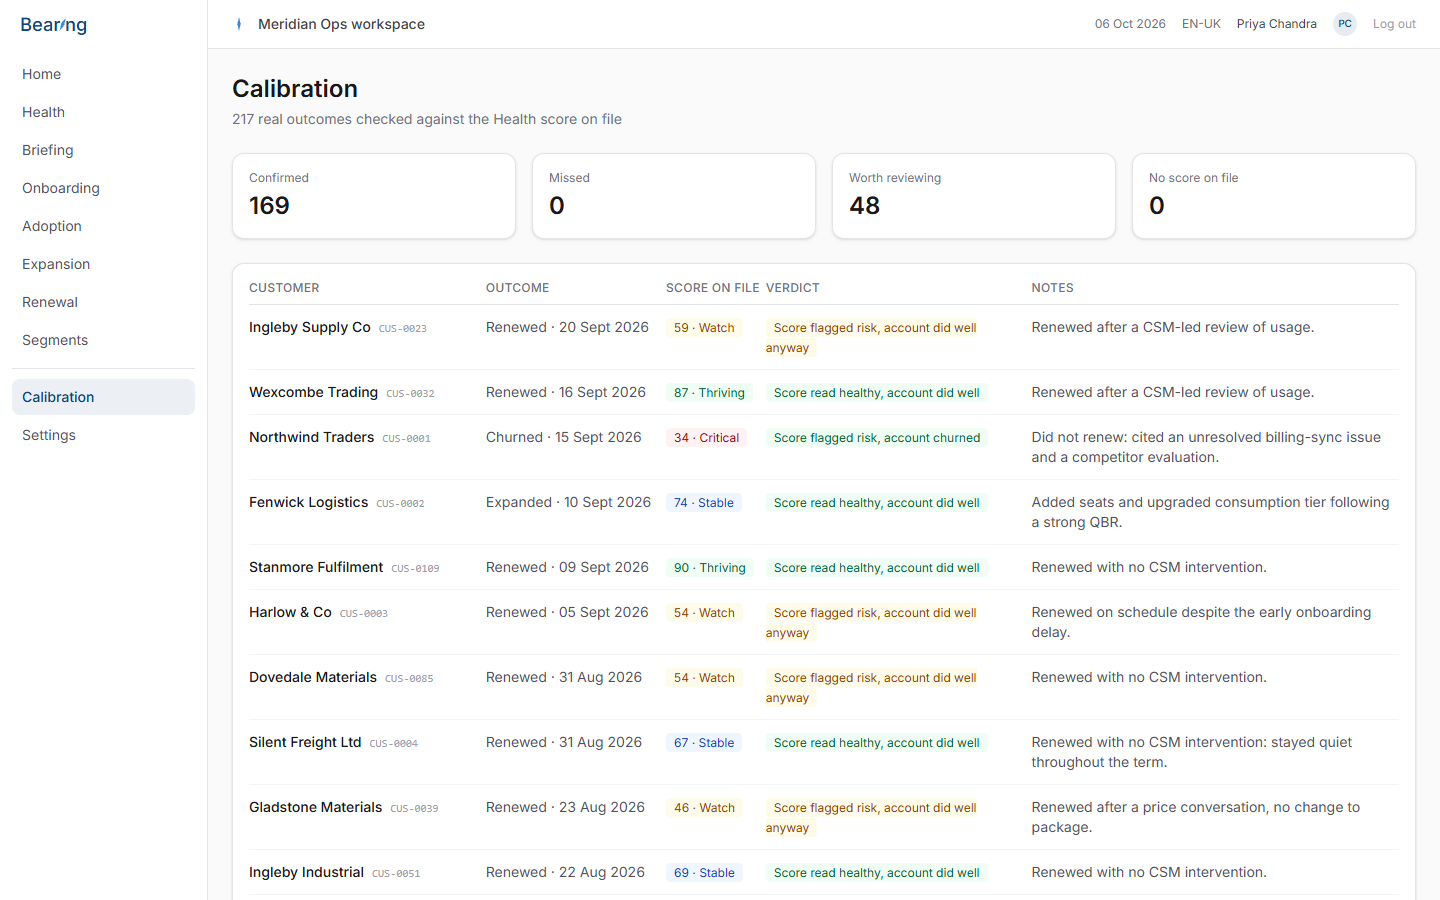
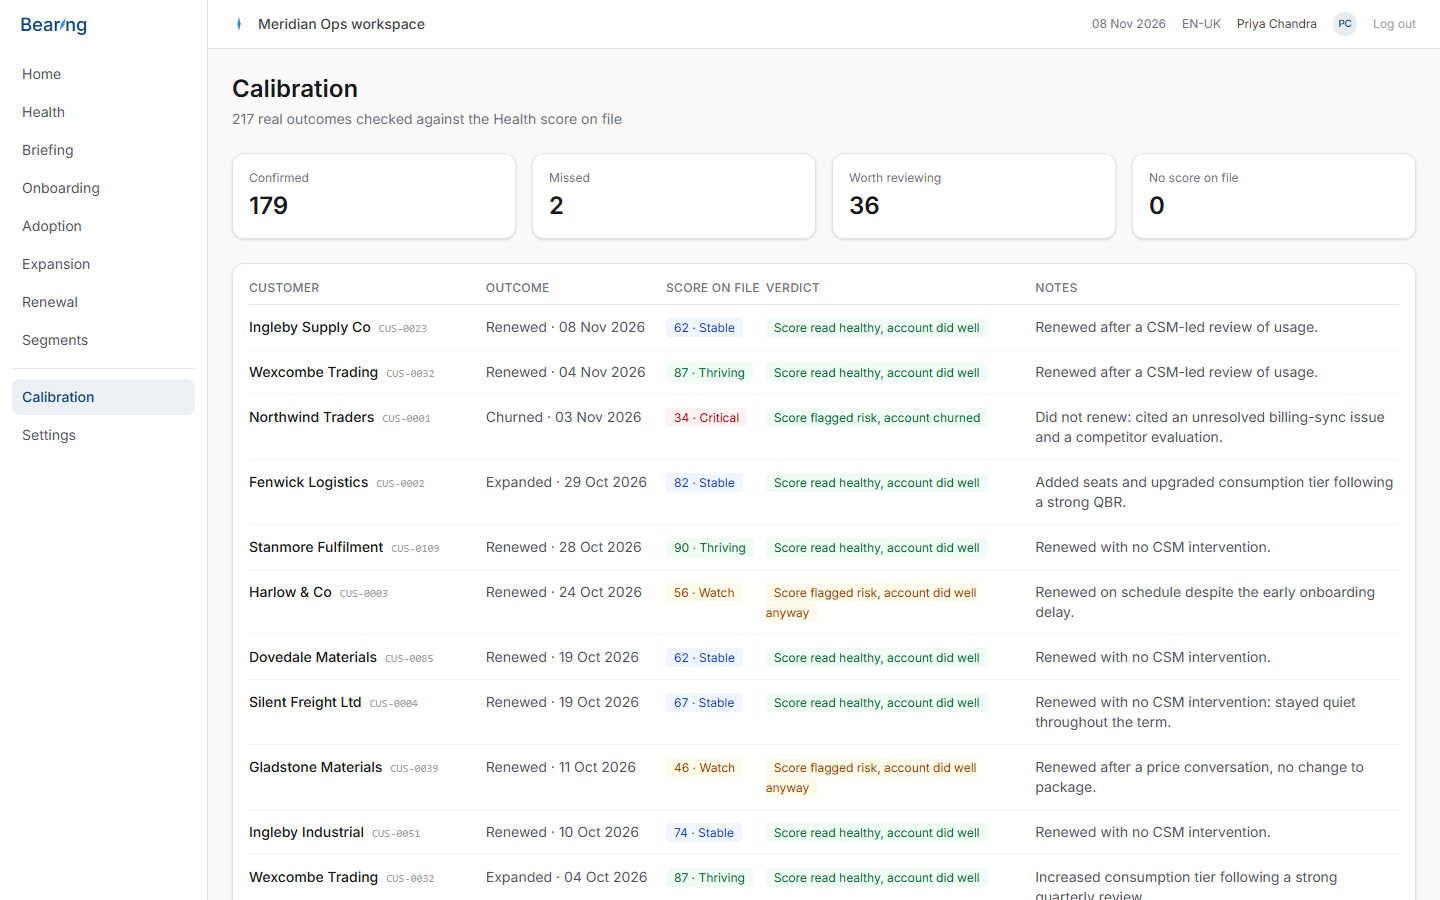
Apply the Layer 2 fix to stored data and refresh screenshots
Re-ran Health, summary, Expansion and Renewal on the demo workspace.
Results recorded in README and TESTING.md (Test 29); 11 screenshots recaptured.

diff --git a/README.md b/README.md
@@ -98,7 +98,7 @@ The easy part of this project is the CRM-adjacent facts – ARR, package, who's 
 The architecture (see `docs/screenshots/health-scoring-architecture.svg`) is implemented in `src/lib/health/`:
 
 - **Two layers, not one formula.** Layer 1 (`baseline.ts`) is deterministic and reproducible: each of the 15 drivers normalised against the account's own history and a peer cohort, not a fixed global threshold – no AI involved. Layer 2 (`agenticLayer.ts`) is a real Anthropic API call (`claude-sonnet-4-5`, structured tool output) that applies a **bounded** adjustment on top of the baseline (capped at +-15 points), with a required, evidence-grounded reason – never a freeform, unexplained number.
-- **Layer 2 is guarded in code, not just in the prompt.** The first full run on 120 customers lowered 89 scores (63 of them by exactly -8), mostly for usage, engagement and champion signals that Layer 1 had already scored, so the same problem was being counted twice. A prompt-only fix then overcorrected, giving most accounts +3 to +5 after one routine seat question. The fix that held has three parts: the prompt says the baseline already covers all 15 drivers and the default adjustment is 0; any non-zero adjustment must quote evidence that is not in the drivers (`evidenceNotInDrivers`), and the code sets the adjustment to 0 if that quote is missing or shorter than 15 characters; and an upward nudge can never lift an account out of its baseline band (so Layer 2 cannot turn a Watch account into a Stable one). Downward moves may cross a band, because a specific risk signal is exactly what a baseline can miss. These rules live in `applyAdjustmentGuards` and are covered by `test-health-layer2-guards.ts`. Verified on a 20-account dry run before anything was written.
+- **Layer 2 is guarded in code, not just in the prompt.** The first full run on 120 customers lowered 89 scores (63 of them by exactly -8), mostly for usage, engagement and champion signals that Layer 1 had already scored, so the same problem was being counted twice. A prompt-only fix then overcorrected, giving most accounts +3 to +5 after one routine seat question. The fix that held has three parts: the prompt says the baseline already covers all 15 drivers and the default adjustment is 0; any non-zero adjustment must quote evidence that is not in the drivers (`evidenceNotInDrivers`), and the code sets the adjustment to 0 if that quote is missing or shorter than 15 characters; and an upward nudge can never lift an account out of its baseline band (so Layer 2 cannot turn a Watch account into a Stable one). Downward moves may cross a band, because a specific risk signal is exactly what a baseline can miss. These rules live in `applyAdjustmentGuards` and are covered by `test-health-layer2-guards.ts`. Verified on a 20-account dry run, then applied to all 120: 82 have no adjustment, 36 are lowered (13 by -8, 21 by -5, 2 by other amounts) and 2 go up, against 89 lowered before. Final bands are 15 Thriving, 63 Stable, 41 Watch and 1 Critical. Only one account is Critical because Layer 1 itself scores only one account below 40; the seed's other critical-profile accounts land in Watch.
 - **Evidence-chain narrative.** Every claim the narrative makes must trace back to a specific input value it was given, not an invented correlation. Tested for real: the model has correctly cited exact usage-decline percentages, specific ticket dates and content, and even surfaced a genuine expansion signal ("asked about adding two more seats") that isn't one of the 15 formal drivers at all – reasoning beyond the baseline, not just restating it.
 - **A real whole-book executive summary**, not a code-aggregated stat sentence. `src/lib/health/bookSummary.ts` makes one Anthropic call across all customers' scores and narratives, finding real cross-account patterns – tested for real, it independently spotted the same billing-sync defect recurring across four unrelated accounts, and noted that high-NPS accounts were nonetheless showing steep usage decline (sentiment lagging disengagement). Scoped by a list of customer IDs rather than hardcoded to "everyone," so the same function can serve a Segment-scoped summary later without changes. Computed by a batch script (`prisma/compute-book-summary.ts`), same "never live on page load" rule as everything else.
 - **Stage-aware scoring.** A pre-Live account gets a narrow, honest read focused on onboarding pace, not the full 15-driver picture applied to an account that hasn't started yet.

diff --git a/TESTING.md b/TESTING.md
@@ -348,7 +348,8 @@ Three changes, each tested. Two of them fix problems found while testing, not ju
 - *Pass 2, prompt and code:* a non-zero adjustment now requires `evidenceNotInDrivers`, a quote of at least 15 characters, enforced in code. An upward nudge is capped at the top of the baseline's band (85 and over: 100; 60 to 84: 84; 40 to 59: 59; under 40: 39). Downward moves may cross a band.
 - *Verified:* a 20-account dry run with nothing written, then the new test.
 - *New test, `prisma/test-health-layer2-guards.ts` (18 checks, added to CI):* no evidence, empty evidence and evidence under 15 characters all give 0; -8 with evidence is kept; -30 clamps to -15; +5 from 82 gives +2; +5 from 84 gives 0; +5 from 58 gives +1; +5 from 40 stays +5; +15 from 90 gives +10; -8 from 85 stays -8.
-- *Not yet applied to stored scores.* The stored Health scores still come from the earlier run. Re-running costs real API credit (about £2.50 to £3 for Health, summary, Expansion and Renewal together), so it waits for approval: `npm run refresh-ai -- health summary expansion renewal`.
+- *Applied to the live demo:* `npm run refresh-ai -- health summary expansion renewal`. The first attempt stopped at 70 of 120 customers when the Anthropic credit ran out, leaving the demo half old and half new; after the credit was topped up the full re-run completed (Health 120, then the book summary, 153 Expansion reviews and the 12 at-risk Renewal reviews; about 2 hours 20 minutes, much slower than the 818 seconds measured earlier, cause not established). Result: 82 accounts with no adjustment, 13 at -8, 21 at -5, 2 at other negative amounts and 2 upward (+2, +8), against 89 lowered before. Bands moved from 18 Thriving, 45 Stable, 51 Watch, 6 Critical to 15, 63, 41 and 1. Stored text has 0 em dashes in snapshots, recommendations and the summary.
+- *What the numbers show:* only 1 account is Critical because Layer 1's baseline alone scores only one account under 40 (the lowest is 39). Layer 2 had been supplying most of the earlier Critical accounts, which was part of the double counting. Renewal's churn model therefore still uses its illustrative fallback for Critical. Changing Layer 1's weights to put the seed's critical-profile accounts in Critical is a scoring-policy decision, left open.
 
 **Demo dates drifted.** The seed fixes every date at one moment, so renewals, go-lives and tickets were ageing. `src/lib/demoDates.ts` shifts every customer-fact date by the whole days elapsed, moves the demo's reference date (`createdAt`) forward by the same amount, shifts dates quoted inside stored AI text, and recalculates the "N days overdue" and "N days to renewal" headlines. When an AI run happened (`computedAt`, `createdAt`, `lastRunAt`, `snoozeUntil`) is deliberately not shifted. The daily cron runs it once the reference date is 7 days old; `npm run refresh-dates` runs it by hand.
 - *New test, `prisma/test-demo-dates.ts` (12 checks, added to CI):* a renewal date moves by exactly 10 days; ticket dates move by the same 10; null dates stay null; another workspace is untouched; an AI run's timestamp is not shifted; a quoted "21 February" becomes "3 March"; the headline is recalculated; the reference date moves; a zero shift is refused; quoted dates roll over month and year ends; numbers that are not dates are left alone.
